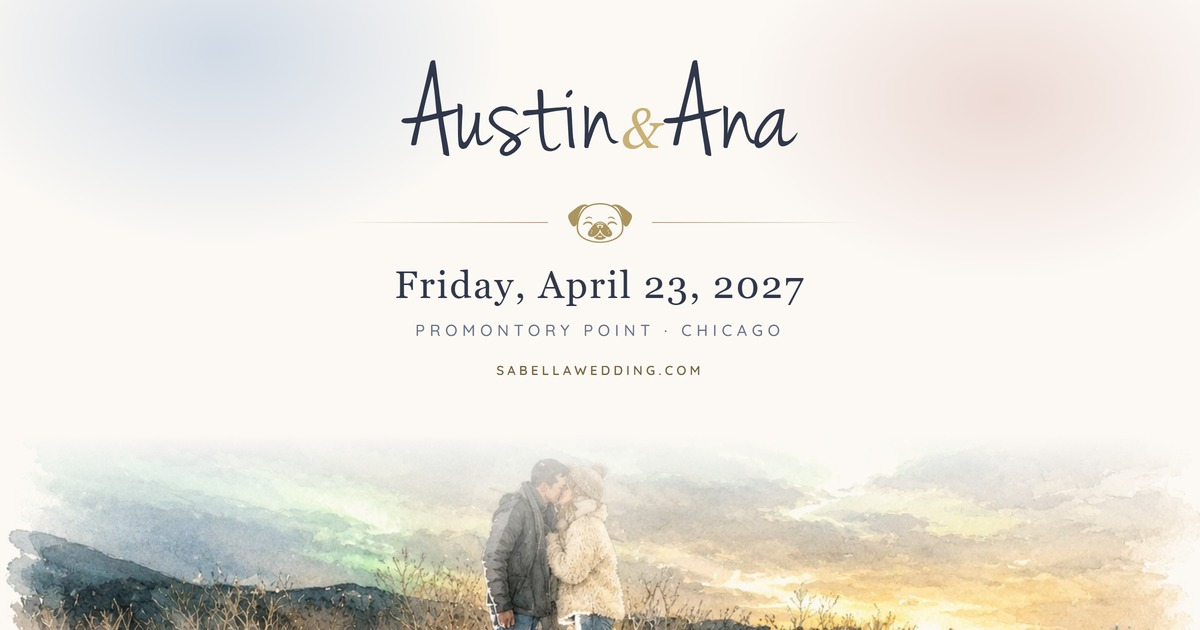
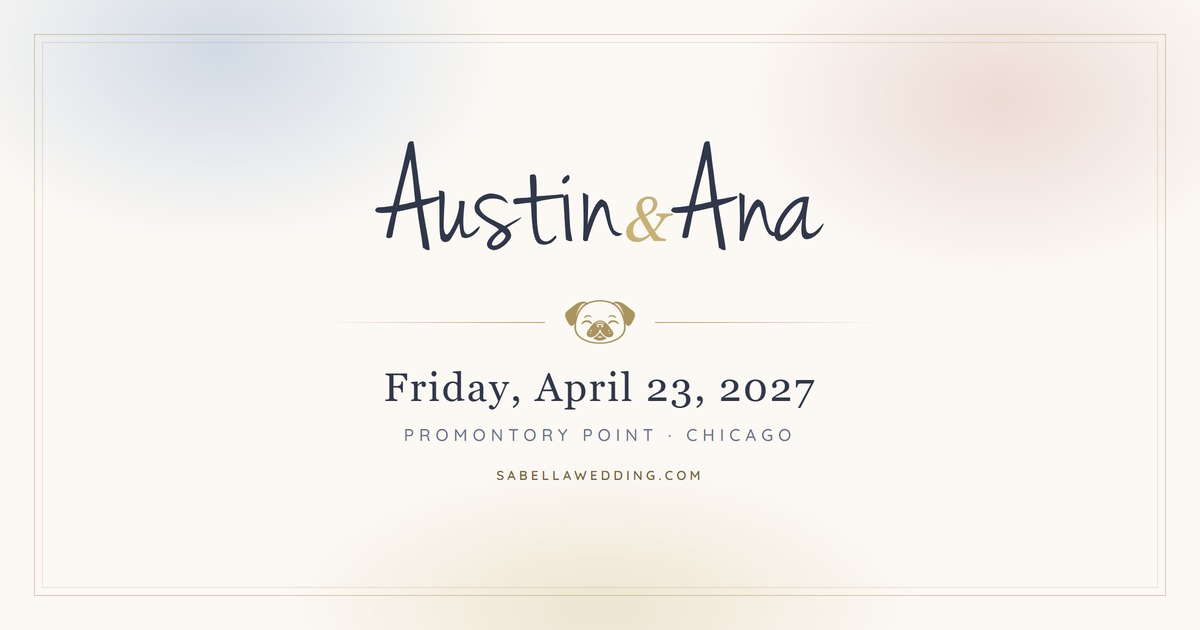
Swap the share image for the type-only treatment
No artwork, just the aurora wash and an inset keepsake frame, so it
stays legible at thumbnail size. Cache version bumped to v=2 so
scrapers that already fetched v=1 pick up the new file.

diff --git a/registry/index.html b/registry/index.html
@@ -10,8 +10,8 @@
   <meta property="og:type" content="website" />
   <meta property="og:url" content="https://sabellawedding.com/registry/" />
   <meta property="og:site_name" content="Austin &amp; Ana" />
-  <meta property="og:image" content="https://sabellawedding.com/assets/photos/og-image.jpg?v=1" />
-  <meta property="og:image:secure_url" content="https://sabellawedding.com/assets/photos/og-image.jpg?v=1" />
+  <meta property="og:image" content="https://sabellawedding.com/assets/photos/og-image.jpg?v=2" />
+  <meta property="og:image:secure_url" content="https://sabellawedding.com/assets/photos/og-image.jpg?v=2" />
   <meta property="og:image:type" content="image/jpeg" />
   <meta property="og:image:width" content="1200" />
   <meta property="og:image:height" content="630" />
@@ -19,7 +19,7 @@
   <meta name="twitter:card" content="summary_large_image" />
   <meta name="twitter:title" content="The House Fund - Austin &amp; Ana" />
   <meta name="twitter:description" content="Skip the gravy boat. Help us buy a house, and pick the state we land in." />
-  <meta name="twitter:image" content="https://sabellawedding.com/assets/photos/og-image.jpg?v=1" />
+  <meta name="twitter:image" content="https://sabellawedding.com/assets/photos/og-image.jpg?v=2" />
 
   <link rel="icon" type="image/png" href="../assets/favicon.png?v=187" />
 

diff --git a/index.html b/index.html
@@ -10,8 +10,8 @@
   <meta property="og:type" content="website" />
   <meta property="og:url" content="https://sabellawedding.com/" />
   <meta property="og:site_name" content="Austin &amp; Ana" />
-  <meta property="og:image" content="https://sabellawedding.com/assets/photos/og-image.jpg?v=1" />
-  <meta property="og:image:secure_url" content="https://sabellawedding.com/assets/photos/og-image.jpg?v=1" />
+  <meta property="og:image" content="https://sabellawedding.com/assets/photos/og-image.jpg?v=2" />
+  <meta property="og:image:secure_url" content="https://sabellawedding.com/assets/photos/og-image.jpg?v=2" />
   <meta property="og:image:type" content="image/jpeg" />
   <meta property="og:image:width" content="1200" />
   <meta property="og:image:height" content="630" />
@@ -19,7 +19,7 @@
   <meta name="twitter:card" content="summary_large_image" />
   <meta name="twitter:title" content="Austin &amp; Ana - April 23, 2027" />
   <meta name="twitter:description" content="Save the date. Promontory Point, Chicago. Find your invitation and RSVP." />
-  <meta name="twitter:image" content="https://sabellawedding.com/assets/photos/og-image.jpg?v=1" />
+  <meta name="twitter:image" content="https://sabellawedding.com/assets/photos/og-image.jpg?v=2" />
 
   <link rel="icon" type="image/png" href="assets/favicon.png?v=187" />
 
